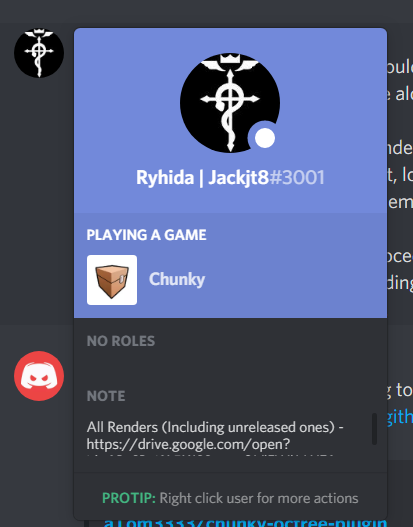
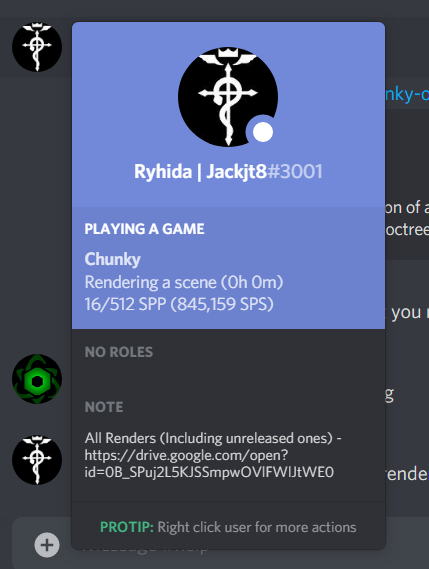
updated plugins
Added Page on installing plugins.
Updated discord rtp image.
Added/Fixed some links.

diff --git a/docs/setup/plugins_install.md b/docs/setup/plugins_install.md
@@ -1,0 +1,22 @@
+---
+title: Plugin Installation
+parent: Installation
+has_children: false
+nav_order: 2
+---
+
+# Plugin Installation
+{: .no_toc }
+
+## Table of contents
+{: .no_toc .text-delta }
+
+1. TOC
+{:toc}
+
+---
+## Installing Plugins
+
+Upon opening the `Plugin Manager` within the `Chunky Launcher` a `Plugins` folder will be created in the install directory. Chunky plugins, which are `.jar` files, should be placed in the `Plugins` folder and then enabled within the `Plugin Manager`.
+
+For a list of available plugins, please see the [Pluings page]({{ site.baseurl }}/docs/userinterface/plugins.html).

diff --git a/docs/userinterface/chunkylauncher.md b/docs/userinterface/chunkylauncher.md
@@ -52,7 +52,7 @@ nav_order: 1
 
 {% responsive_image path: "assets/images/user_interface/chunky_plugin_manager.png" %}
 
-`Manage plugins` - The Plugin manager can be used to manage installed plugins. For a list of available plugins and their function, please refer to the [Pluings page]({{ site.baseurl }}/docs/setup/plugins.html).
+`Manage plugins` - The Plugin manager can be used to manage installed plugins. For a list of available plugins and their function, please refer to the [Pluings page]({{ site.baseurl }}/docs/userinterface/plugins.html).
 
 ---
 

diff --git a/docs/userinterface/plugins.md b/docs/userinterface/plugins.md
@@ -1,21 +1,22 @@
 ---
 title: Plugins
-parent: Installation
+parent: User Interface
 has_children: false
 nav_order: 2
 ---
 
 # Plugins
-todo - Add pictures
 {: .no_toc }
+
+[Plugin Installation]({{ site.baseurl }}/docs/setup/plugins_install.html){: .btn }
+
+---
 
 ## Table of contents
 {: .no_toc .text-delta }
 
 1. TOC
 {:toc}
-
-
 
 ---
 ## Denoising Plugin
